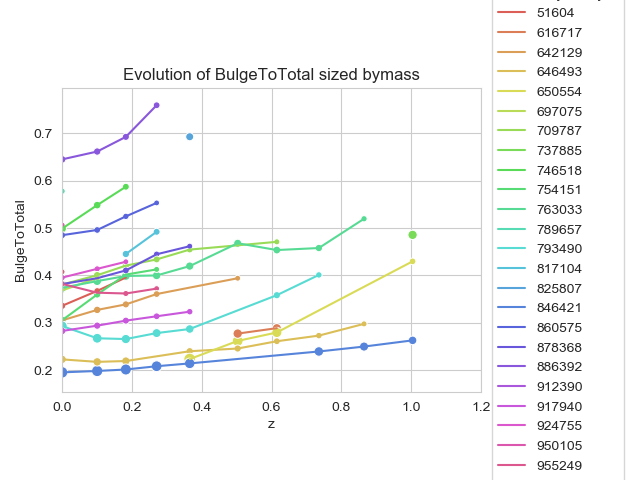
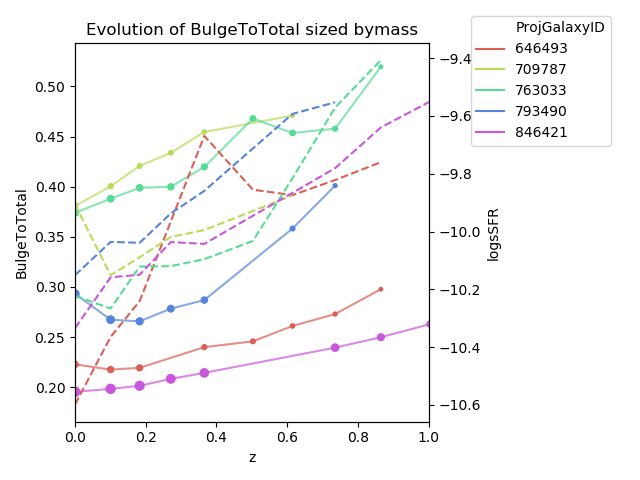
Evolution Plots

diff --git a/EvolutionofGalaxies.py b/EvolutionofGalaxies.py
@@ -15,7 +15,7 @@ from matplotlib import cm
 from mpl_toolkits.mplot3d import axes3d
 from scipy.interpolate import griddata 
 
-sns.set_style('whitegrid')
+#sns.set_style('whitegrid')
 
 
 def sigmaclip(image, sigma, box_size):
@@ -330,43 +330,6 @@ def threeDplot(df, x,y,z, column_size, column_colour):
     Z = np.linspace(minz, maxz, hist.shape[1])
     Z,Y=np.meshgrid(Z,Y)
     ax.contourf(hist,Y,Z, zdir='x', offset=minx, cmap=cm.YlOrRd, alpha=0.6)
-    """
-    hist, binx, biny=np.histogram2d(df[x], df[y],  bins=5, weights=df['fracofbin'])
-    X = np.linspace(minx, maxx, hist.shape[0])
-    Y = np.linspace(miny, maxy, hist.shape[1])
-    X,Y=np.meshgrid(X,Y)
-    ax.contourf(X,Y,hist, zdir='z', offset=minz, cmap=cm.YlOrRd, alpha=0.6)
-    
-    hist, binx, biny=np.histogram2d(df[x], df[z], bins=5, weights=df['fracofbin'])
-    X = np.linspace(minx, maxx, hist.shape[0])
-    Z = np.linspace(minz, maxz, hist.shape[1])
-    X,Z=np.meshgrid(X,Z)
-    ax.contourf(X,hist,Z, zdir='y', offset=maxy, cmap=cm.YlOrRd, alpha=0.6)
-
-    hist, binx, biny=np.histogram2d(df[y], df[z], bins=5, weights=df['fracofbin'])
-    Y = np.linspace(miny, maxy, hist.shape[0])
-    Z = np.linspace(minz, maxz, hist.shape[1])
-    Z,Y=np.meshgrid(Z,Y)
-    ax.contourf(hist,Y,Z, zdir='x', offset=minx, cmap=cm.YlOrRd, alpha=0.6)
-    """
-    
-    C1 = griddata((df[x], df[y]), df['fracofbin'], (xi[None,:], yi[:,None]), method='linear')
-    X1, Y1 = np.meshgrid(xi, yi)
-    ax.contourf(X1, Y1, C1, zdir='z', offset=minz, cmap=cm.YlOrRd, alpha=0.4)
-    
-    C2 = griddata((df[y], df[z]), df['fracofbin'], (yi[None,:], zi[:,None]), method='linear')
-    Y2, Z2 = np.meshgrid(yi, zi)
-    ax.contourf(C2, Y2, Z2, zdir='x', offset=minx, cmap=cm.YlOrRd, alpha=0.4)
-    
-
-    C3 = griddata((df[x], df[z]), df['fracofbin'], (xi[None,:], zi[:,None]), method='linear')
-    X3, Z3 = np.meshgrid(xi, zi)
-    ax.contourf(X3, C3, Z3, zdir='y', offset=maxy, cmap=cm.YlOrRd, alpha=0.4)
-    
-    #ax.scatter(df[x], df[y],  zdir='z', zs=minz, c=sm1.to_rgba(df[column_colour]), marker='*',s=size)
-    #ax.scatter(df[y], df[z], zdir='x', zs=minx, c=sm2.to_rgba(df[column_colour]), s=size)
-    #ax.scatter(df[x], df[z], zdir='y', zs=maxy,  c=sm3.to_rgba(df[column_colour]), s=size)
-    
     
     ax.set_xlim(minx,maxx)
     ax.set_ylim(miny,maxy)
@@ -452,42 +415,68 @@ def subplothistograms(df, param1, param2, param3, param4, param5, param6):
     plt.tight_layout()
     plt.show()
 
-def evolutionplot(df, param, param_size):
-    sns.scatterplot(x='z',y=param, hue='ProjGalaxyID',data=df, size=param_size, palette=sns.color_palette('hls', df.ProjGalaxyID.nunique()), legend=False)
-    sns.lineplot(x='z',y=param, hue='ProjGalaxyID',data=df, palette=sns.color_palette('hls', df.ProjGalaxyID.nunique()))
-    plt.legend(bbox_to_anchor=(1.01,0.5), loc='center left')
-    plt.xlim(0,1.2)
+def evolutionplot(df, param, param_size, param2):
+    fig, ax=plt.subplots()
+
+    sns.scatterplot(x='z',y=param, hue='ProjGalaxyID',data=df, size=param_size, palette=sns.color_palette('hls', df.ProjGalaxyID.nunique()), legend=False, ax=ax)
+    sns.lineplot(x='z',y=param, hue='ProjGalaxyID',data=df, palette=sns.color_palette('hls', df.ProjGalaxyID.nunique()), ax=ax,legend=False, linewidth=0.8)
+    ax2=ax.twinx()
+    sns.lineplot(x='z',y=param2, hue='ProjGalaxyID',data=df, palette=sns.color_palette('hls', df.ProjGalaxyID.nunique()),  ax=ax2)
+    for i in range(df.ProjGalaxyID.nunique()):
+        ax2.lines[i].set_linestyle('--')
+    ax3=ax.twinx()
+    sns.lineplot(x='z',y='logsSFR', hue='ProjGalaxyID',data=df, palette=sns.color_palette('hls', df.ProjGalaxyID.nunique()),  ax=ax3, legend=False)
+
+
+    plt.legend(bbox_to_anchor=(1.1,0.8), loc='center left')
+    plt.xlim(0,1)
     plt.title('Evolution of '+param+' sized by'+param_size)
     plt.tight_layout()
-    plt.savefig('evolvinggalaxygraphbinmainbranch'+sim_name+'/evolution of'+param+'.png')
+    plt.savefig('evolvinggalaxygraphbinmainbranch'+sim_name+'/evolution of'+param+'and'+param2+'.png')
     
     plt.show()
 
+def logx(x):
+    if x !=0:
+        return np.log10(x)
+    else:
+        return 0
+
 def plotbulgetodisc(df, sim_name):
-    dftotal=df
     print(df.shape)
     drop_numerical_outliers(df, 3)
+    df=df=df.reset_index()
     print(df.shape)
+    dftotal=df
     df=df[df.n_total_error<10]
     print(df.shape)
     df=df[df.n_total>0.05]
     df=df.reset_index()
     print(df.shape)
+    
+    df['num']= df.groupby('ProjGalaxyID')['ProjGalaxyID'].transform('count')
+    #df['num']=df.ProjGalaxyID.value_counts()
+    print(df.shape)
+    df=df[df.num>7]
+    #dftotal work
+    print(df.ProjGalaxyID.nunique())
+    df['BulgeToTotal']=df.apply(lambda x: (1-x.DiscToTotal), axis=1)
+    df['logBHmass']=df.apply(lambda x: np.log10(x.BHmass), axis=1)
+    df['logmass']=df.apply(lambda x: np.log10(x.mass), axis=1)
     df['sSFR']=df.apply(lambda x: (x.SFR/x.mass), axis=1)
-    #df=removeoutlierscolumn(df, 'sSFR', 2)
-    #df=removeoutlierscolumn(df, 'mass', 2).reset_index()
+    df['logsSFR']=df.apply(lambda x: 1-logx(x.sSFR), axis=1)
+    df['dtototal']=df.apply(lambda x: (1-x.btdintensity), axis=1)
+    evolutionplot(df, 'DiscToTotal', 'logmass', 'logBHmass')
+
+
+
+    exit()
+    #df work
+
     df=df[df.sSFR>0]
     print(df.shape)
 
-    df['logsSFR']=df.apply(lambda x: np.log10(x.sSFR), axis=1)
-    df['logBHmass']=df.apply(lambda x: np.log10(x.BHmass), axis=1)
-    df['logmass']=df.apply(lambda x: np.log10(x.mass), axis=1)
-    df['sSFR']=df.apply(lambda x: (x.SFR/x.mass), axis=1)
-    df['logsSFR']=df.apply(lambda x: np.log10(x.sSFR), axis=1)
-    df['logBHmass']=df.apply(lambda x: np.log10(x.BHmass), axis=1)
-    df['logmass']=df.apply(lambda x: np.log10(x.mass), axis=1)
-    df['dtototal']=df.apply(lambda x: (1-x.btdintensity), axis=1)
-    df['BulgeToTotal']=df.apply(lambda x: (1-x.DiscToTotal), axis=1)
+
     print(df.ProjGalaxyID.nunique())
 
     evolutionplot(df, 'mass', 'mass')
@@ -510,34 +499,6 @@ def plotbulgetodisc(df, sim_name):
     df['dtbintensity']=df.apply(lambda x: invertbtd(x.btdintensity), axis=1)
     df['ZBin']=pd.qcut(df.Z, 6)
     
-    """
-    size=100*(df.mass)/(df.mass.max())
-    g=sns.PairGrid(df, vars=['DiscToTotal','dtbradius','dtbintensity','n_total','n_disca','n_disc','n_bulgea','n_bulge','SFR', 'BHmass'])
-    g.map_diag(sns.kdeplot)
-    g.hue_vals=df['mass']
-    g.hue_names=df['mass'].unique()
-    g.palette=sns.color_palette('Blues', len(g.hue_names))
-    g.map_offdiag(plt.scatter, s=size)
-    plt.tight_layout()
-    plt.subplots_adjust(top=0.9)
-    g.fig.suptitle('PairPlot for relationships between paramters, coloured by galaxy size')
-    g.savefig('evolvinggalaxygraphsbinmainbranch'+sim_name+'/allbulgeparametersrelationships.png')
-    plt.show()
-    plt.close()
-    
-    size=100*(df.mass)/(df.mass.max())
-    g=sns.PairGrid(df, x_vars=['DiscToTotal','SFR', 'BHmass'], y_vars=['n_total','n_disc','n_bulge','n_disca','n_bulgea'])
-    g.hue_vals=df['mass']
-    g.hue_names=df['mass'].unique()
-    g.palette=sns.color_palette('Blues', len(g.hue_names))
-    g.map(plt.scatter, s=size)
-    plt.tight_layout()
-    plt.subplots_adjust(top=0.9)
-    g.fig.suptitle('PairPlot for relationships between paramters, coloured by galaxy size')
-    g.savefig('evolvinggalaxygraphsbinmainbranch'+sim_name+'/selectedbulgeparametersrelationships.png')
-    plt.show()
-    plt.close()
-   """ 
    
     stackedhistogram(df, 'n_total','n_disc','n_bulge','n_bulge_exp')
     plt.close()
